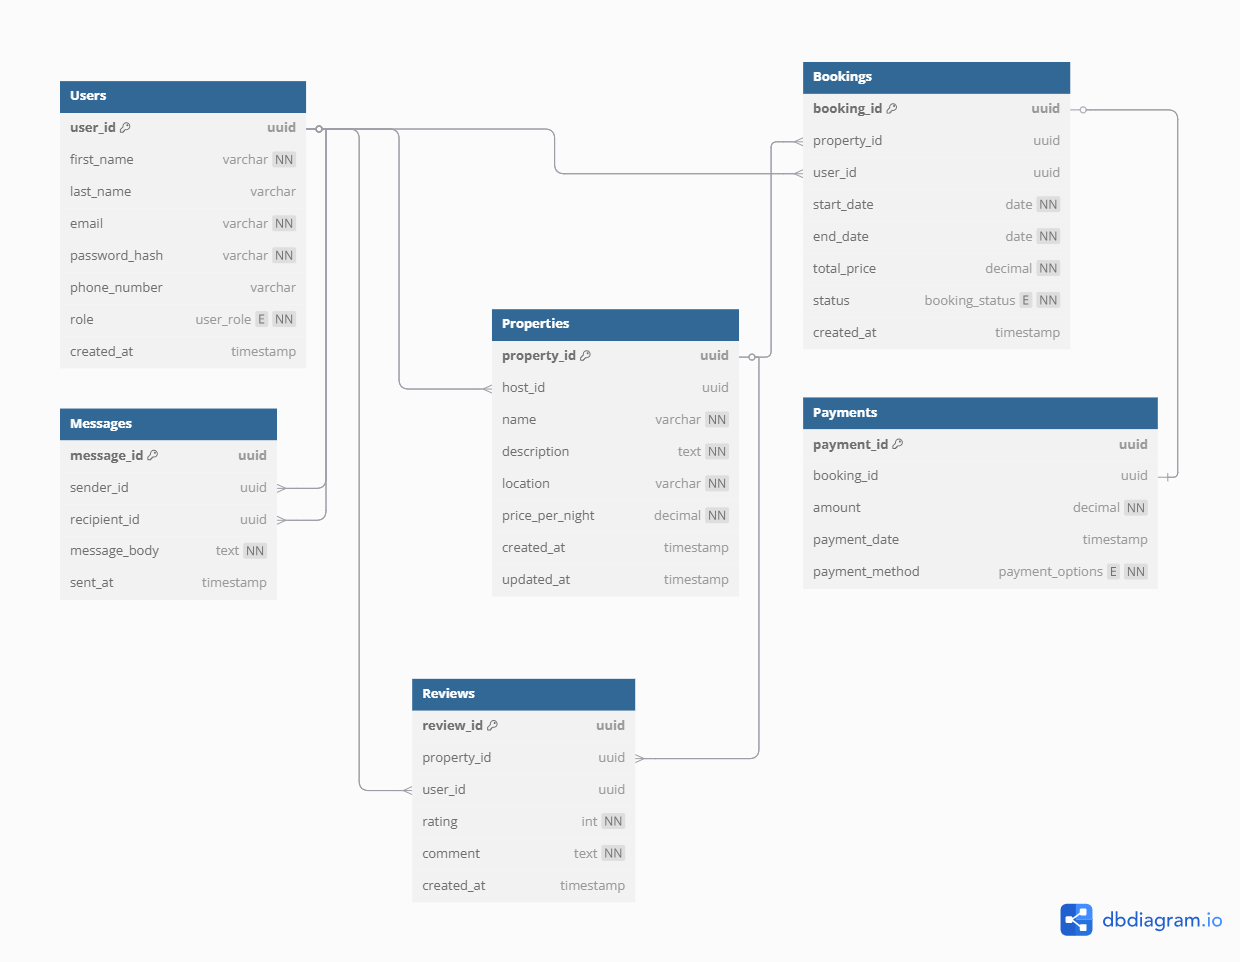
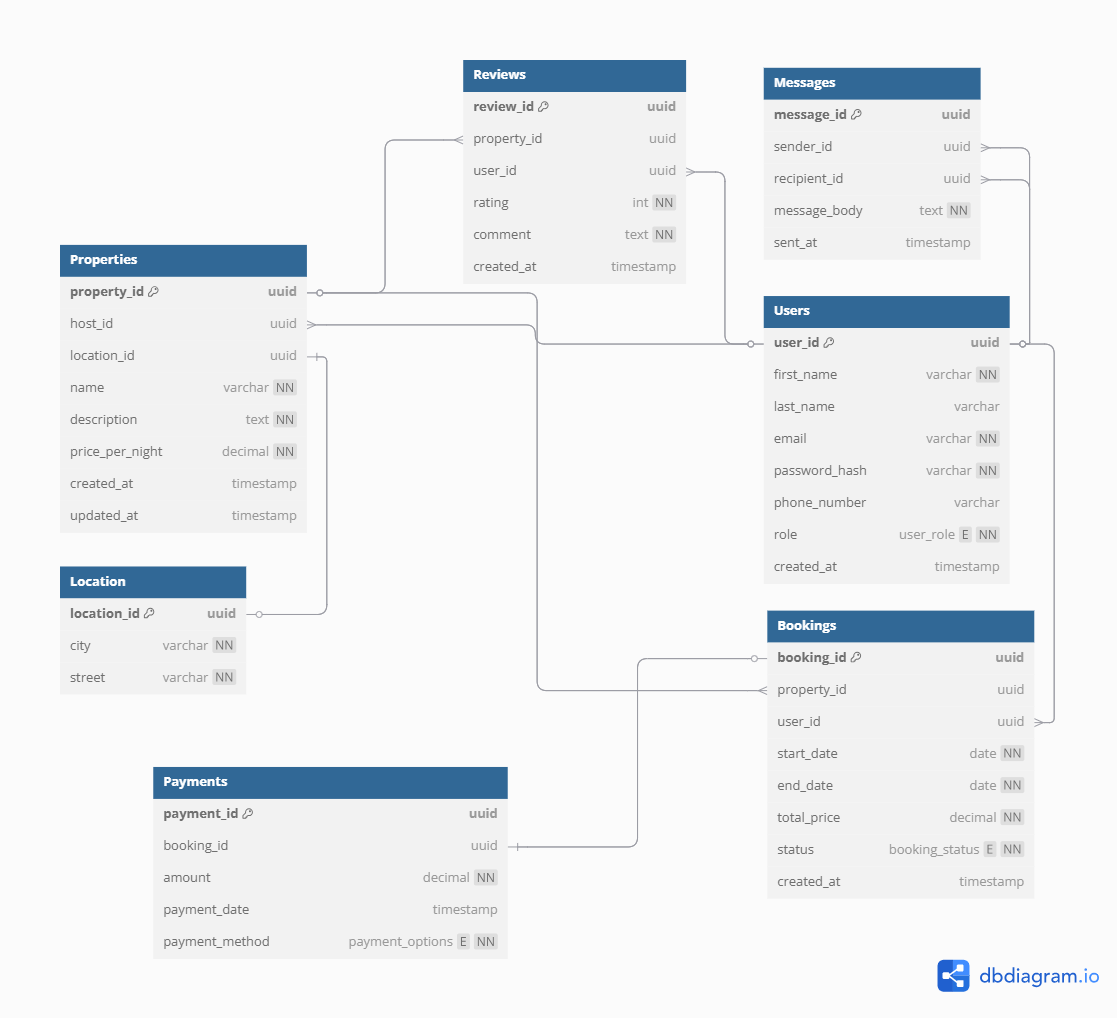
wrote scripts to create database, tables and seed data

diff --git a/ERD/requirements.md b/ERD/requirements.md
@@ -139,3 +139,42 @@ The `messages` table records communication between users on the platform. Each m
 
 > **📂 Reference:**  
 > For full details and revised table structures, refer to the file `normalization.md`.
+---
+
+## 🔒 Deletion Rules & Data Integrity
+
+To keep the data in the Airbnb Clone database clean and consistent, certain **deletion restrictions** are enforced using foreign key constraints. These rules prevent accidental loss of important data or broken relationships between tables.
+
+### ⚠ Key Restrictions:
+
+- **Users with Active Bookings**  
+  → Cannot be deleted.  
+  _(Guests or Hosts involved in current or past bookings are protected from deletion to preserve history.)_
+
+- **Properties with Active Bookings**  
+  → Cannot be deleted.  
+  _(Prevents removing listings that are already booked or linked to reviews/payments.)_
+
+- **Locations used by Properties**  
+  → Can be deleted, but the location on those properties will be set to `NULL`.  
+  _(This avoids breaking the property record while allowing location updates.)_
+
+- **Bookings linked to Payments**  
+  → Deleting a booking will also delete its related payment record.  
+  _(Handled with `ON DELETE CASCADE` for cleanup.)_
+
+- **Users linked to Messages**  
+  → If a user is deleted, their messages will remain, but the sender/recipient fields will be set to `NULL`.  
+  _(So chat history isn’t lost even if the user leaves.)_
+
+- **Users or Properties with Reviews**  
+  → If deleted, their reviews will also be deleted automatically.  
+  _(Helps maintain a clean review system.)_
+
+---
+
+### 💡 Why This Matters:
+These rules ensure that:
+- No “orphaned” records are left behind.
+- Bookings, reviews, and payments stay connected to valid users and listings.
+- Important history and financial data are not lost due to accidental deletions.

diff --git a/database-script-0x01/README.md b/database-script-0x01/README.md
@@ -1,0 +1,21 @@
+# 📄 Database Schema – Airbnb Clone
+
+This script defines the database structure for the **Airbnb Clone** backend. It includes commands for creating the database and all necessary tables, along with their relationships and constraints.
+
+## 📁 File: `script.sql`
+
+### 💾 What it does:
+- Creates the main database (e.g., `airbnb_clone`).
+- Defines all entities as tables: `Users`, `Properties`, `Bookings`, `Payments`, `Reviews`, `Messages`, and `Location`.
+- Adds foreign key relationships to enforce data integrity.
+- Creates indexes for faster lookups (e.g., on `email`, `booking_id`, etc.).
+- Uses UUIDs for primary keys across all tables.
+- Includes enum-like constraints (e.g., roles, status, payment options).
+
+### 🔐 Constraints & Features:
+- Primary keys on all main entities.
+- Foreign key constraints with `ON DELETE` / `ON UPDATE` logic.
+- Not-null constraints for required fields.
+- Secure design consideration for storing hashed passwords.
+
+> This script should be run before inserting any sample data. It sets up the full database schema.

diff --git a/database-script-0x02/README.md b/database-script-0x02/README.md
@@ -1,0 +1,24 @@
+
+# `README.md` for `seed.sql` (Sample Data Insertion)
+
+
+``` 🌱 Seed Data – Airbnb Clone
+
+This script populates the database with sample data for development and testing purposes.
+```
+
+## 📁 File: `seed.sql`
+
+### 📌 What it contains:
+- Inserts **4 users**: 2 guests, 1 host, and 1 admin — with securely hashed passwords.
+- Inserts **3 locations** and **3 properties** (all hosted by Kwame).
+- Creates **2 bookings** (one confirmed, one pending).
+- Adds **2 payments** (one via Stripe, one via PayPal).
+- Wrapped in a `BEGIN;` / `COMMIT;` transaction block to ensure data consistency.
+
+### 🔐 Sample UUIDs and realistic data:
+- Sample UUIDs are used in place of auto-generated ones.
+- Booking and payment dates are future-dated to simulate real activity.
+- All relational references (foreign keys) match the values declared in `script.sql`.
+
+> Run this script only after the schema (`script.sql`) has been created successfully.
